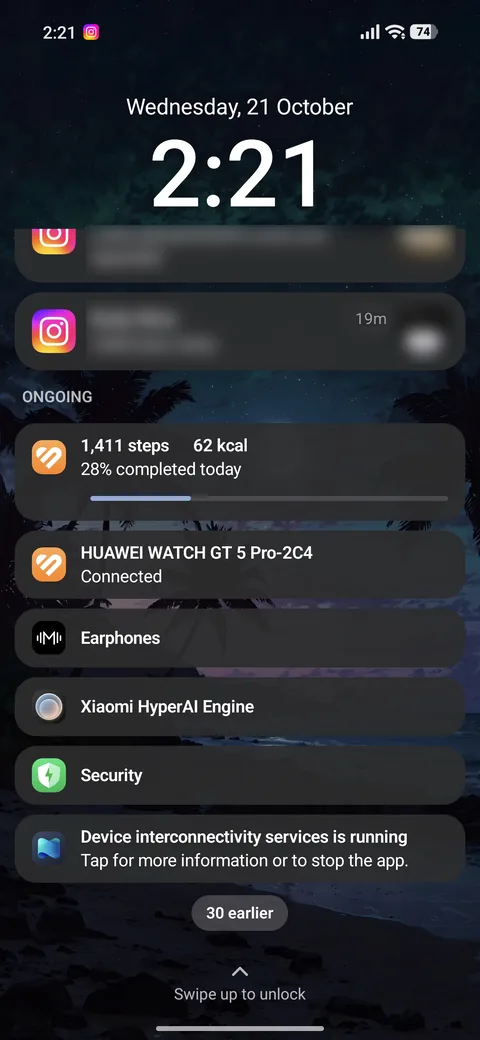
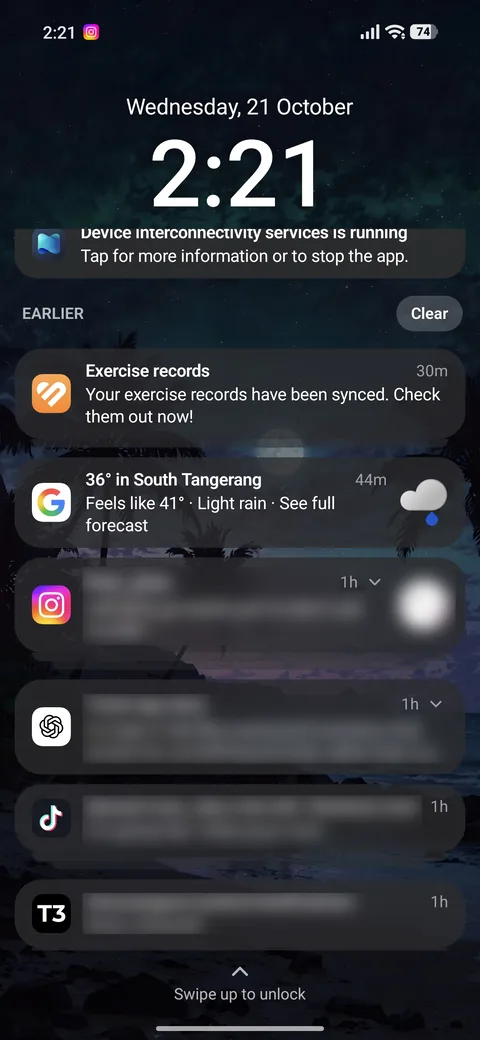
Gallery: use screenshots that show the timeline, not ongoing rows
The panel and third gallery shots were mostly ongoing items. Replace them with the
panel scrolled to Earlier (19m → 1h) and the lock screen with Earlier opened
(30m → 1h). The hero and OG image keep the original panel shot.

Changed region(s): [[0.0312, 0.2154, 0.9688, 0.9231], [0.9062, 0.8615, 0.9375, 0.8923]]

diff --git a/website/index.html b/website/index.html
@@ -151,16 +151,16 @@
               <figure>
                 <div class="phone">
                   <img
-                    src="/screens/panel-480.webp"
-                    srcset="/screens/panel-480.webp 480w, /screens/panel-800.webp 800w"
+                    src="/screens/panel-earlier-480.webp"
+                    srcset="/screens/panel-earlier-480.webp 480w, /screens/panel-earlier-800.webp 800w"
                     sizes="(min-width: 960px) 300px, (min-width: 640px) 30vw, 72vw"
                     width="480" height="1040" loading="lazy"
-                    alt="The panel: New 2 at the top, from now and 13 minutes ago, then Ongoing items such as a step counter and a connected watch."
+                    alt="The panel scrolled to Earlier: notifications from X, Google weather, WhatsApp, T3, two calendars, Instagram and a fitness app, from 19 minutes to 1 hour ago, newest first."
                   />
                 </div>
                 <figcaption>
                   <strong>The panel.</strong> Opened from the edge handle or the Quick Settings tile.
-                  New notifications in full, ongoing ones compact underneath.
+                  Everything you’ve seen stays in the order it arrived, across every app.
                 </figcaption>
               </figure>
             </li>
@@ -189,12 +189,12 @@
                     srcset="/screens/lock-earlier-480.webp 480w, /screens/lock-earlier-800.webp 800w"
                     sizes="(min-width: 960px) 300px, (min-width: 640px) 30vw, 72vw"
                     width="480" height="1040" loading="lazy"
-                    alt="The lock-screen view scrolled down: Ongoing items, then a single pill reading 30 earlier."
+                    alt="The lock-screen view with Earlier opened: fitness, weather, Instagram, ChatGPT, TikTok and T3 notifications, from 30 minutes to 1 hour ago, newest first."
                   />
                 </div>
                 <figcaption>
-                  <strong>Everything else, folded.</strong> Notifications you’ve already seen wait
-                  behind a single “30&nbsp;earlier” pill.
+                  <strong>Earlier, one tap away.</strong> What you’ve already seen folds behind an
+                  “N&nbsp;earlier” pill. Tap it and it opens, still newest first.
                 </figcaption>
               </figure>
             </li>

diff --git a/README.md b/README.md
@@ -9,14 +9,14 @@ An iPhone-inspired notification experience for Android: chronological, calm, and
 - **Ongoing** (media, navigation, downloads) sits compactly below NEW and is never "new".
 
 <p align="center">
-  <img src="website/public/screens/panel-480.webp" width="240" alt="The panel: two notifications under NEW, from now and 13 minutes ago, then Ongoing items.">
+  <img src="website/public/screens/panel-earlier-480.webp" width="240" alt="The panel scrolled to Earlier: notifications from 19 minutes to 1 hour ago, newest first, across apps.">
   &nbsp;
   <img src="website/public/screens/lock-new-480.webp" width="240" alt="The lock-screen view: five NEW notifications, newest first, from 1 to 18 minutes ago, then Ongoing.">
   &nbsp;
-  <img src="website/public/screens/lock-earlier-480.webp" width="240" alt="The lock-screen view scrolled down: Ongoing items, then a single pill reading 30 earlier.">
+  <img src="website/public/screens/lock-earlier-480.webp" width="240" alt="The lock-screen view with EARLIER opened: notifications from 30 minutes to 1 hour ago, newest first.">
 </p>
-<p align="center"><sub>Panel, lock screen, and what you've already seen folded behind "30 earlier".
-Xiaomi 17T Pro; other people's names, messages and photos are blurred.
+<p align="center"><sub>The panel, the lock screen, and EARLIER opened on the lock screen. Every list is
+newest first, across apps. Xiaomi 17T Pro; other people's names, messages and photos are blurred.
 More at <a href="https://chronotif.com">chronotif.com</a>.</sub></p>
 
 The same model runs on the lock screen: fresh notifications up front, earlier ones folded behind
